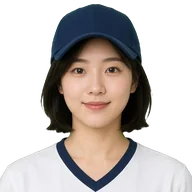
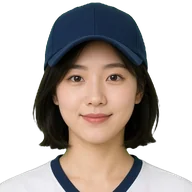
fix: female faces cropped to the same head size as the male faces (faces.py scales prefixed crops by helmet or cap width)

diff --git a/tools/faces.py b/tools/faces.py
@@ -12,6 +12,8 @@ from PIL import Image
 
 OUT = os.path.join(os.path.dirname(__file__), '..', 'assets', 'faces')
 SIZE = 192
+# 앞글자를 줘서 만드는 얼굴(여성 등)은 기존 얼굴과 머리 크기를 맞춘다: 192px 안에서 헬멧·모자 폭(기존 b_·p_ 평균)
+HEAD = {'b': 110, 'p': 94}      # (자르는 곳에서 재는 폭은 귀 덮개까지 들어가 조금 넓게 나와서, 결과가 b 116 · p 101 이 되게 맞춘 값)
 
 
 def cuts(white, n):
@@ -59,7 +61,12 @@ def run(path, kind, prefix=''):
             top = rows[0] if len(rows) else 0
             up = A[: int(H * 0.6)] > 0.5
             cx = int(np.nonzero(up.any(axis=0))[0].mean()) if up.any() else W // 2
-            s = int(H * 0.9); y0 = max(0, top - int(H * 0.08)); x0 = min(max(0, cx - s // 2), W - s)
+            s = int(H * 0.9); y0 = max(0, top - int(H * 0.08))
+            if prefix:                                       # 머리 폭이 HEAD[kind]가 되게 자르는 크기를 정한다
+                band = A[top: top + int(H * 0.15)] > 0.5
+                hw = max((np.nonzero(r)[0].ptp() if r.any() else 0) for r in band)
+                s = min(H, W, int(hw * SIZE / HEAD[kind])); y0 = max(0, top - int(s * 0.015))
+            x0 = min(max(0, cx - s // 2), W - s)
             im = Image.fromarray(np.dstack([rgb, A * 255]).round().astype(np.uint8), 'RGBA').crop((x0, y0, x0 + s, y0 + s))
             im = im.resize((SIZE, SIZE), Image.LANCZOS)
             im.save(os.path.join(OUT, f'{prefix}{kind}_{i}.webp'), 'WEBP', quality=85, method=6)
